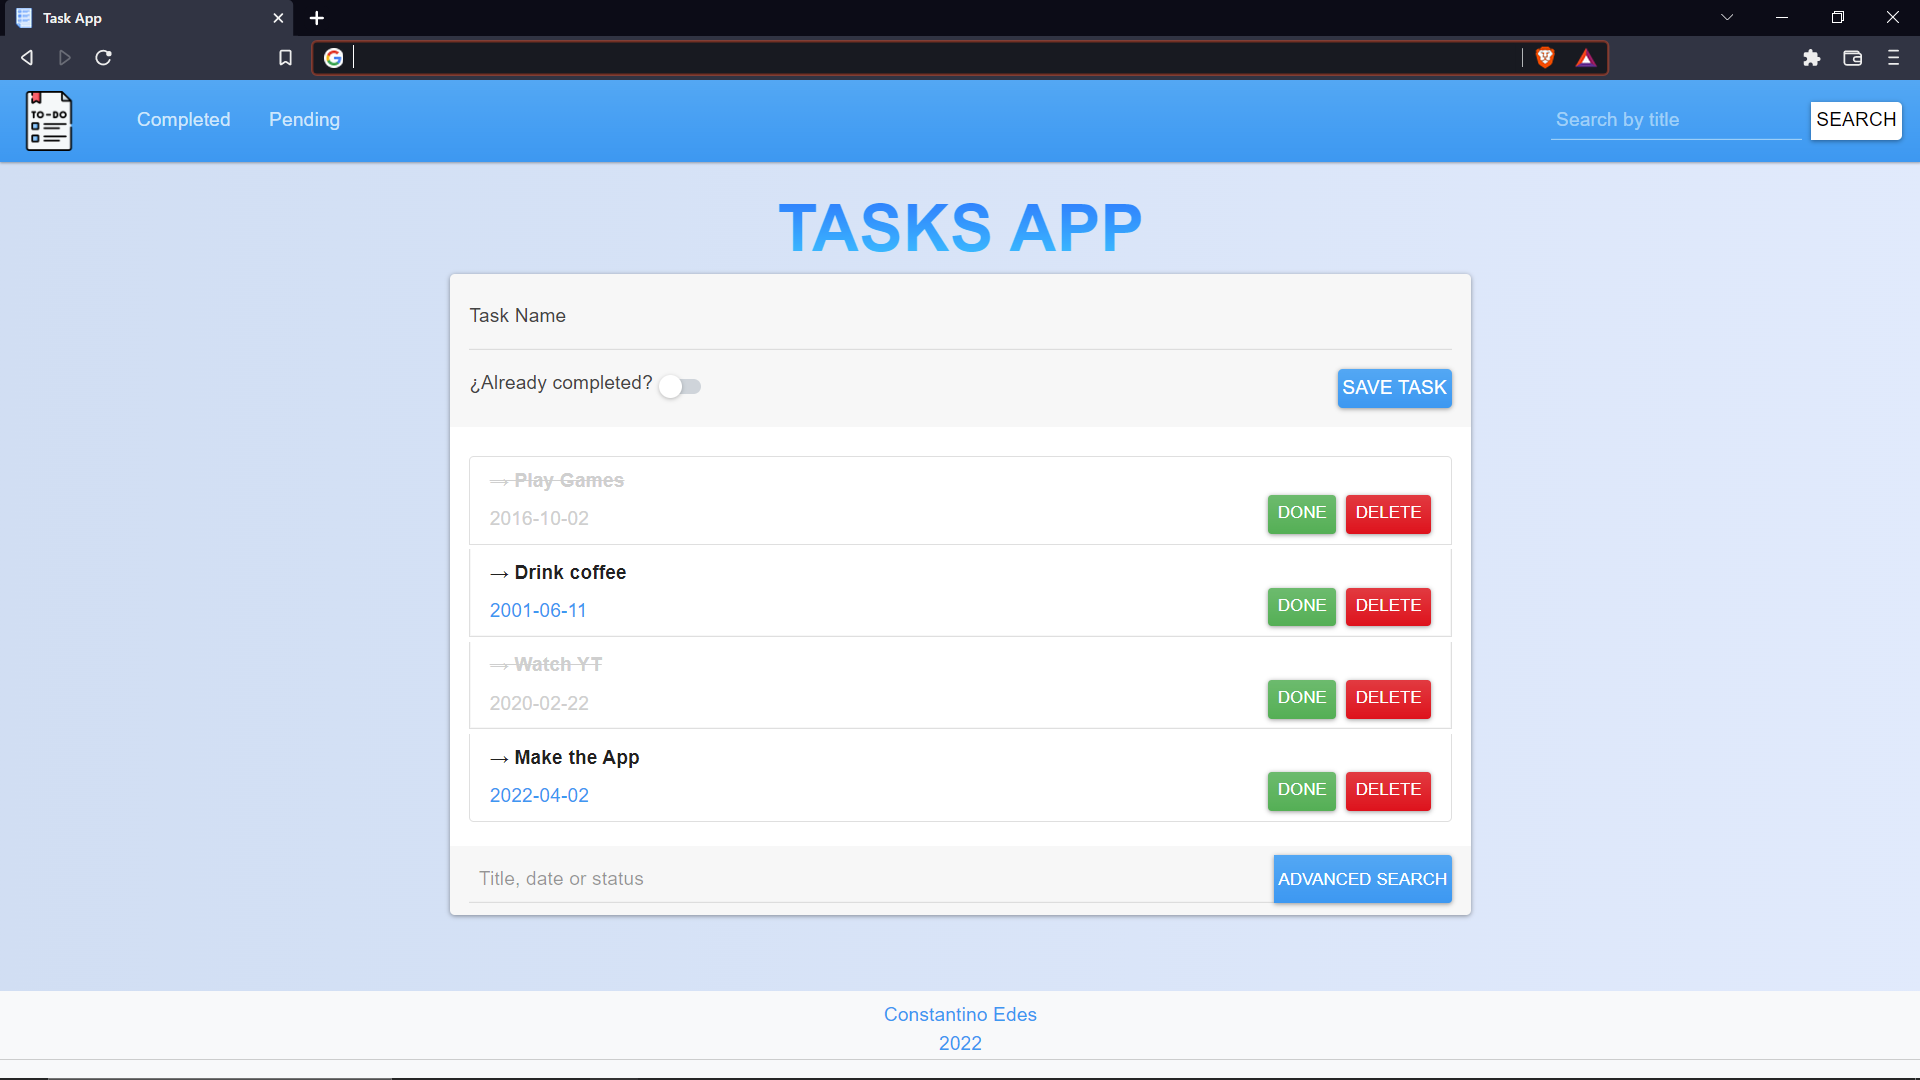
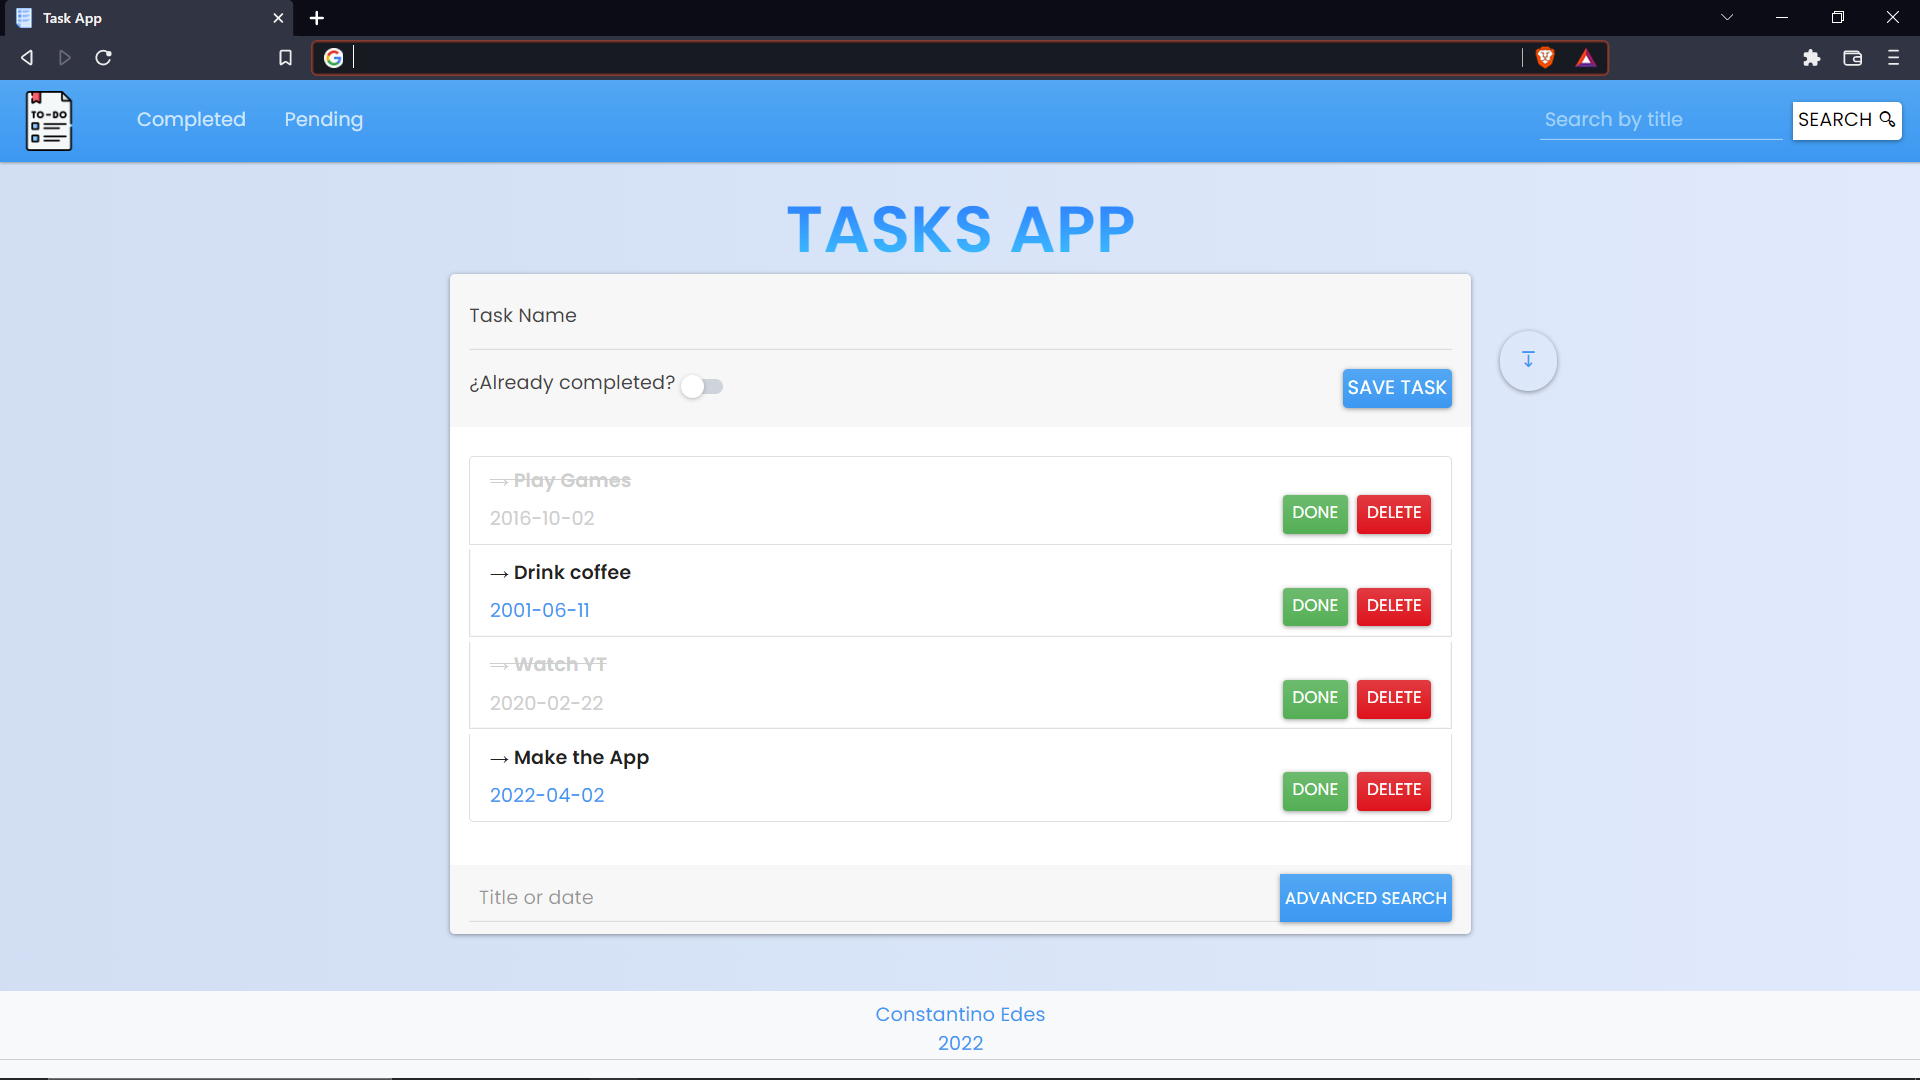
improvements added

diff --git a/templates/index.html b/templates/index.html
@@ -3,6 +3,7 @@
 {% block title %} Task App {% endblock %}
 
 {% block body %}
+
 <nav class="navbar navbar-expand-lg p-1 navbar-dark bg-primary">
     <div class="container-fluid">
         <a class="navbar-brand" href="/">
@@ -18,13 +19,19 @@
                     <a class="nav-link ms-4 fs-6" href="/?filter=0">Completed</a>
                 </li>
                 <li class="nav-item">
-                    <a class="nav-link fs-6 ms-3" href="{{url_for('get_pendientes')}}">Pending</a>
+                    <a class="nav-link fs-6 ms-3" href="/?filter=1">Pending</a>
                 </li>
             </ul>
-            <form class="d-flex">
+                <!-- <ul class="navbar-nav ml-auto">
+                    <li class="nav-item">
+                        <a class="nav-link fs-6 me-3" href="/?order=1">Change order</a>
+                    </li>
+                </ul> -->
+            <form class="d-flex" action="{{url_for('busqueda_titulo')}}" method="GET">
                 <div class="input-group">
-                    <input type="text" class="form-control me-sm-2 p-1 " placeholder="Search by title">
-                    <button class="btn p-1 btn-secondary" type="button" id="button-addon2">Search <i
+                    <input type="text" class="form-control me-sm-2 p-1 fs-6" name="title" placeholder="Search by title"
+                        required>
+                    <button class="btn p-1 btn-secondary fs-6" type="submit" id="button-addon2">Search <i
                             class="uil uil-search-alt"></i></button>
                 </div>
             </form>
@@ -55,10 +62,15 @@
                     </form>
                 </div>
                 <div class="card-body mt-2">
+                    {% if not tareas %}
+                    <div class="container px-5">
+                        <p class="text-center fs-5 text-danger">No tasks found, please try again.</p>
+                        <a class="text-center btn btn-outline-warning rounded-pill d-flex justify-content-center p-2"
+                            href="{{url_for('home')}}">Go Back</a>
+                    </div>
+                    {% endif %}
                     <ul class="list-group">
                         {% for t in tareas %}
-                        {% if filter %}
-                        {% if filter == 0 and t.status == 0 %}
                         <li class="list-group-item mb-1">
                             <span {% if t.status == 0 %} id="done" {% endif %}
                                 class="fs-6  fw-bolder">&#8594;&nbsp;{{t.title}}</span>
@@ -69,45 +81,24 @@
                                 <a href="/delete/{{t.id}}" class="btn btn-sm btn-danger">Delete</a>
                             </div>
                         </li>
-                        {% endif %}
-                        {% if filter == 1 and t.status == 1 %}
-                        <li class="list-group-item mb-1">
-                            <span {% if t.status == 0 %} id="done" {% endif %}
-                                class="fs-6 fw-bolder">&#8594;&nbsp;{{t.title}}</span>
-                            <div class="d-flex">
-                                <p class="text-start text-primary fst-normal flex-grow-1 m-0 mt-2"
-                                    {% if t.status == 0 %} id="done-date" {% endif %}>{{t.date}}</p>
-                                <a href="/done/{{t.id}}" class="btn btn-sm btn-success me-2">Done</a>
-                                <a href="/delete/{{t.id}}" class="btn btn-sm btn-danger">Delete</a>
-                            </div>
-                        </li>
-                        {% endif %}
-                        {% else %}
-                        <li class="list-group-item mb-1">
-                            <span {% if t.status == 0 %} id="done" {% endif %}
-                                class="fs-6  fw-bolder">&#8594;&nbsp;{{t.title}}</span>
-                            <div class="d-flex">
-                                <p class="text-start text-primary fst-normal flex-grow-1 m-0 mt-2"
-                                    {% if t.status == 0 %} id="done-date" {% endif %}>{{t.date}}</p>
-                                <a href="/done/{{t.id}}" class="btn btn-sm btn-success me-2">Done</a>
-                                <a href="/delete/{{t.id}}" class="btn btn-sm btn-danger">Delete</a>
-                            </div>
-                        </li>
-                        {% endif %}
                         {% endfor %}
                     </ul>
                 </div>
-                <div class="card-footer">
-                    <form action="{{url_for('busqueda_total')}}" class="form-check p-0">
+                <div class="card-footer mt-5" id="card-end-separation">
+                    <form action="{{ url_for('busqueda_total') }}" class="form-check p-0" method="GET">
                         <div class="input-group ">
-                            <input type="text" class="form-control m-0 p-2" placeholder="Title, date or status">
-                            <button class="btn btn-sm btn-primary m-0 p-1" type="button" id="button-addon2">Advanced
+                            <input type="text" class="form-control m-0 p-2" name="search_adv"
+                                placeholder="Title or date" required>
+                            <button class="btn btn-sm btn-primary m-0 p-1" type="submit" id="button-addon2">Advanced
                                 Search</button>
                         </div>
                     </form>
-                    <div id="search"></div>
                 </div>
             </div>
+            <div class="" id="search"></div>
+        </div>
+        <div class="col-1 mt-5 ">
+            <a class="btn btn-outline-primary rounded-pill mb-5 " href="#search"><i class="uil uil-arrow-from-top"></i></a>
         </div>
     </div>
 </main>
@@ -117,12 +108,9 @@
         <div class="p-0 text-center">
             <p class="m-0 p-0 text-center text-primary">Constantino Edes</p>
             <span class="text-primary">2022</span>
-
         </div>
-
     </div>
     <hr class="m-0">
 </footer>
-
 
 {% endblock %}

diff --git a/static/css/style.css b/static/css/style.css
@@ -25,8 +25,13 @@ body {
     color: #cfcfcf !important;
 }
 
+#card-end-separation{
+    margin-top: 1rem !important;
+}
+
 #footer {
     position: fixed;
+    
     background-color: #cfdef3;
     bottom: 0px;
     left: 0px;

diff --git a/app.py b/app.py
@@ -10,41 +10,38 @@ app.config["SQLALCHEMY_DATABASE_URI"] = 'sqlite:///db\\tasks.db'
 app.config["SQLALCHEMY_TRACK_MODIFICATIONS"] = False
 db.init_app(app)
 
-"""
-- Añadir titulo unico, verificar que no se repita en la base de datos al ingresar la tarea.
-- En el index imprimir solo las primeras 100 tareas (id order by desc, limit 100).
-- En la busqueda, buscar las tarea ingresada en las totales, que esten arriba de el indice 100.
-- Añadir una navbar para poner un input con la opcion de buscar (como en un carrito de compras).
-- Añadir una opcion (en la nav) para poder ordenar las tareas por fecha de creacion, estado de completado o incompleto.
-"""
-
 
 # ======== Aqui empiezan las rutas ========
 # ======== Agrega una tarea ========
 @app.route('/')
 def home():
-  
-    filter = request.args.get('filter', default = None)
-    if( filter == '1'):
-        tareas = db.session.query(Tasks).filter(Tasks.status == 1).order_by(desc(Tasks.id)).all()
-    elif ( filter == '0'):
-        tareas = db.session.query(Tasks).filter(Tasks.status == 0).order_by(desc(Tasks.id)).all()
+    # imprime las primeras 60 tareas mas recientes de la base de datos 
+    # para acceder al resto se pueden usar las busquedas
+
+    # orden = request.args.get('order', default=0)
+    # orden = 0 -> ordena por id descendente (mas reciente)
+    # orden = 1 -> ordena por id ascendente (mas antiguo)
+    # proximamente se apuntara a ordenar por abecedario y mas de un orden a la vez
+
+    filter = request.args.get('filter', default=None)
+    # filter = 1 -> pendientes
+    # filter = 2 -> completadas
+    # filter = None -> todas
+
+    if filter !=  None:
+        tareas = db.session.query(Tasks).filter(Tasks.status == filter).order_by(desc(Tasks.id)).limit(60).all()
     else:
-        tareas = db.session.query(Tasks).order_by(desc(Tasks.id)).all()
- 
+        tareas = db.session.query(Tasks).order_by(desc(Tasks.id)).limit(60).all()
+
     return render_template('index.html', tareas=tareas, filter=filter)
 
-@app.route('/search')
-def search():
-    return render_template('search.html')
 
-# Agrega una tarea 
+# Agrega una tarea, no deja agregar una tarea vacia, ni repetida
 @app.route('/agregar', methods=['POST'])
 def agregar():
     try:
         if request.method == 'POST':
             tarea = request.form.get('tarea')
-            
             tarea = tarea.strip()
             tarea = tarea.capitalize()
             repetida = Tasks.query.filter(Tasks.title == tarea).first() 
@@ -72,6 +69,8 @@ def agregar():
    
 
 # Muestra todas las tareas en formato JSON (sin estilos)
+# Falses = Completadas
+# Trues = Pendientes
 @app.route('/tareas')
 def get_tareas():
     try:
@@ -84,7 +83,7 @@ def get_tareas():
         return jsonify({'msg': 'Ha ocurrido un error.'}), 500
 
 
-# marca una tarea como completada
+# marca una tarea como completada o pendiente (switch)
 @app.route('/done/<int:id>')
 def done(id):
     try:
@@ -103,7 +102,7 @@ def done(id):
         return jsonify({'msg': 'Ha ocurrido un error.'}), 500
 
 
-# elimina una tarea
+# elimina una tarea de la base de datos
 @app.route('/delete/<int:id>')
 def borrar_tarea(id):
     try:
@@ -117,63 +116,39 @@ def borrar_tarea(id):
         return jsonify({'msg': 'Ha ocurrido un error.'}), 500
 
 
-
-# Muestra las tareas False = completadas
-@app.route('/completadas')
-def get_completadas():
-    pass
-    
-   
-# Muestra las tareas Trues = Pendientes
-@app.route('/pendientes')
-def get_pendientes():
-    pass
-   
-
-# busca las tareas por titulo
+# busca las tareas por titulo 
 @app.route('/busqueda', methods=['GET'])
 def busqueda_titulo():
     try:
         search_title = request.args['title']
-        resultado = Tasks.query.filter(Tasks.title.like('%' + search_title + '%')).first()
+        resultado =  db.session.query(Tasks).filter(Tasks.title.like(f'%{search_title}%'))
 
-        if resultado:
-            return jsonify(resultado.serialize()), 200
+        if resultado.count() == 0:
+            return render_template('index.html', tareas=[], filter=None)
         else:
-            return jsonify({'msg': 'La tarea no existe.'}), 200
+            return render_template('index.html', tareas=resultado)
 
     except Exception as e:
         exception('[SERVER]: Error -> {}'.format(e))
         return jsonify({'msg': 'Ha ocurrido un error'}), 500
-   
 
-# busca las tareas por titulo, fecha y status
+
+# busca las tareas por titulo o fecha
 @app.route('/busqueda/total' , methods=['GET'])
 def busqueda_total():
     try:
-        fields = {}
-
-        if 'title' in request.args:
-            fields['title'] = request.args['title']
-
-        if 'status' in request.args:
-            fields['status'] = request.args['status']
-
-        if 'date' in request.args:
-            fields['date'] = request.args['date']
-
-        resultado = Tasks.query.filter_by(**fields).first()
-
-        if resultado:
-            return jsonify(resultado.serialize()), 200
+        search = request.args['search_adv']
+        resultado =  db.session.query(Tasks).filter(Tasks.date.like(f'%{search}%') | Tasks.title.like(f'%{search}%'))
+       
+        if resultado.count() == 0:
+            return render_template('index.html', tareas=[], filter=None)
         else:
-            return jsonify({'msg': 'La tarea no existe.'}), 200
-
+            return render_template('index.html', tareas=resultado)
+        
     except Exception as e:
         exception('[SERVER]: Error -> {}'.format(e))
         return jsonify({'msg': 'Ha ocurrido un error'}), 500
    
-
 
 
 # ======== Aqui terminan las rutas ========

diff --git a/README.md b/README.md
@@ -1,9 +1,8 @@
 ## Flask Task App 
 
-Application to control your things to do, see which ones you have to complete and when they have been created. 
+Application to control your things to do, see which ones you have to complete, when they have been created, order the tasks as you want and search between them. :wink:
 
-### Preview
-
+### Preview 
 ![](./docs/screenshot.png)
 
 ### Installation
@@ -16,3 +15,6 @@ flask run
 ```
 
 now you can visit <a href="http://localhost:8000" target="_blank" rel="noreferrer">http://localhost:8000</a>
+
+
+
